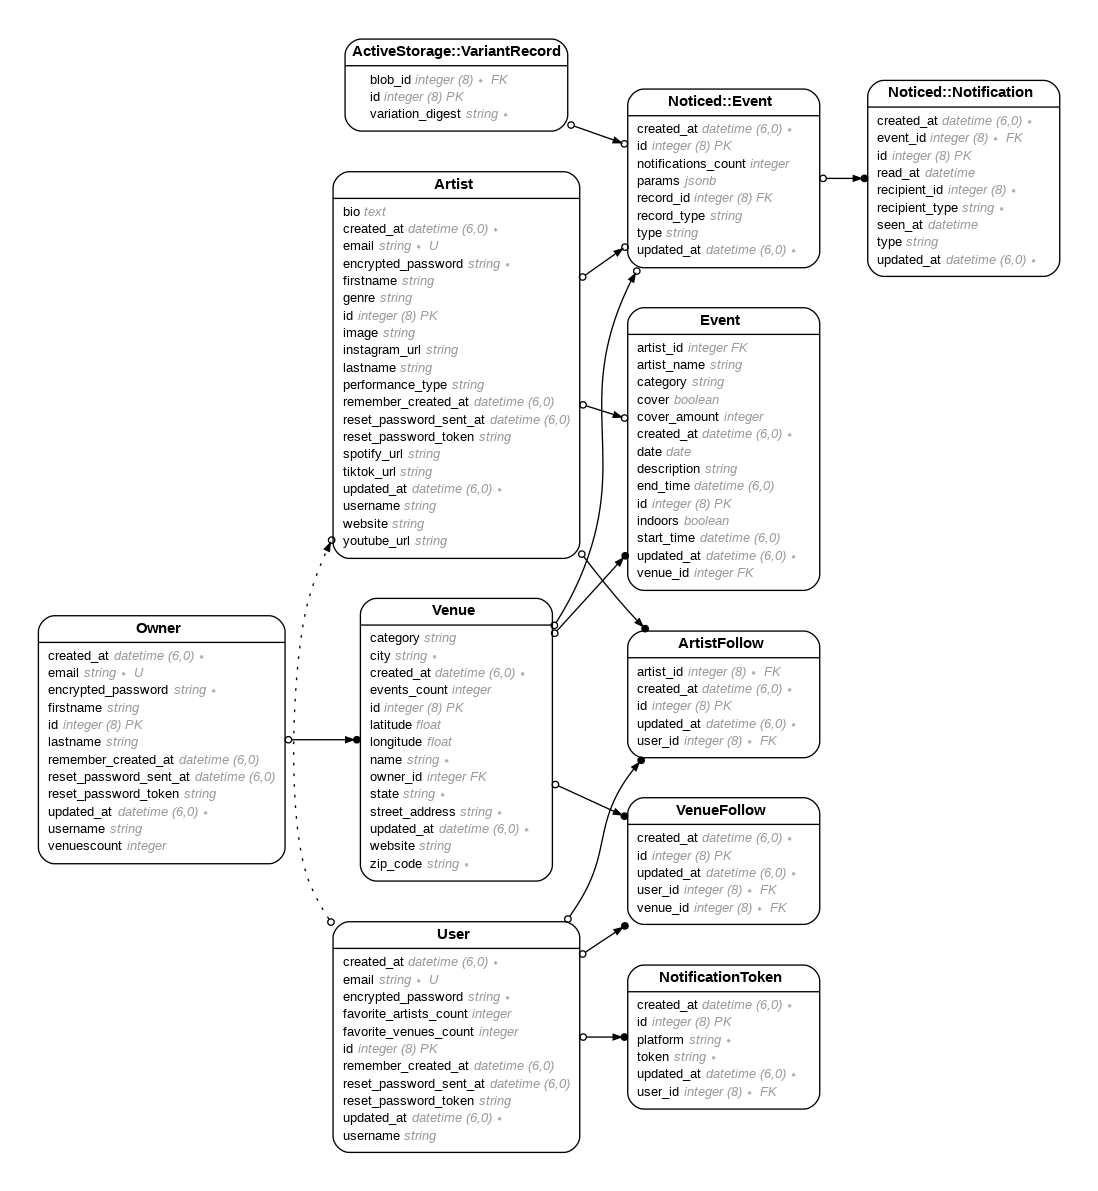
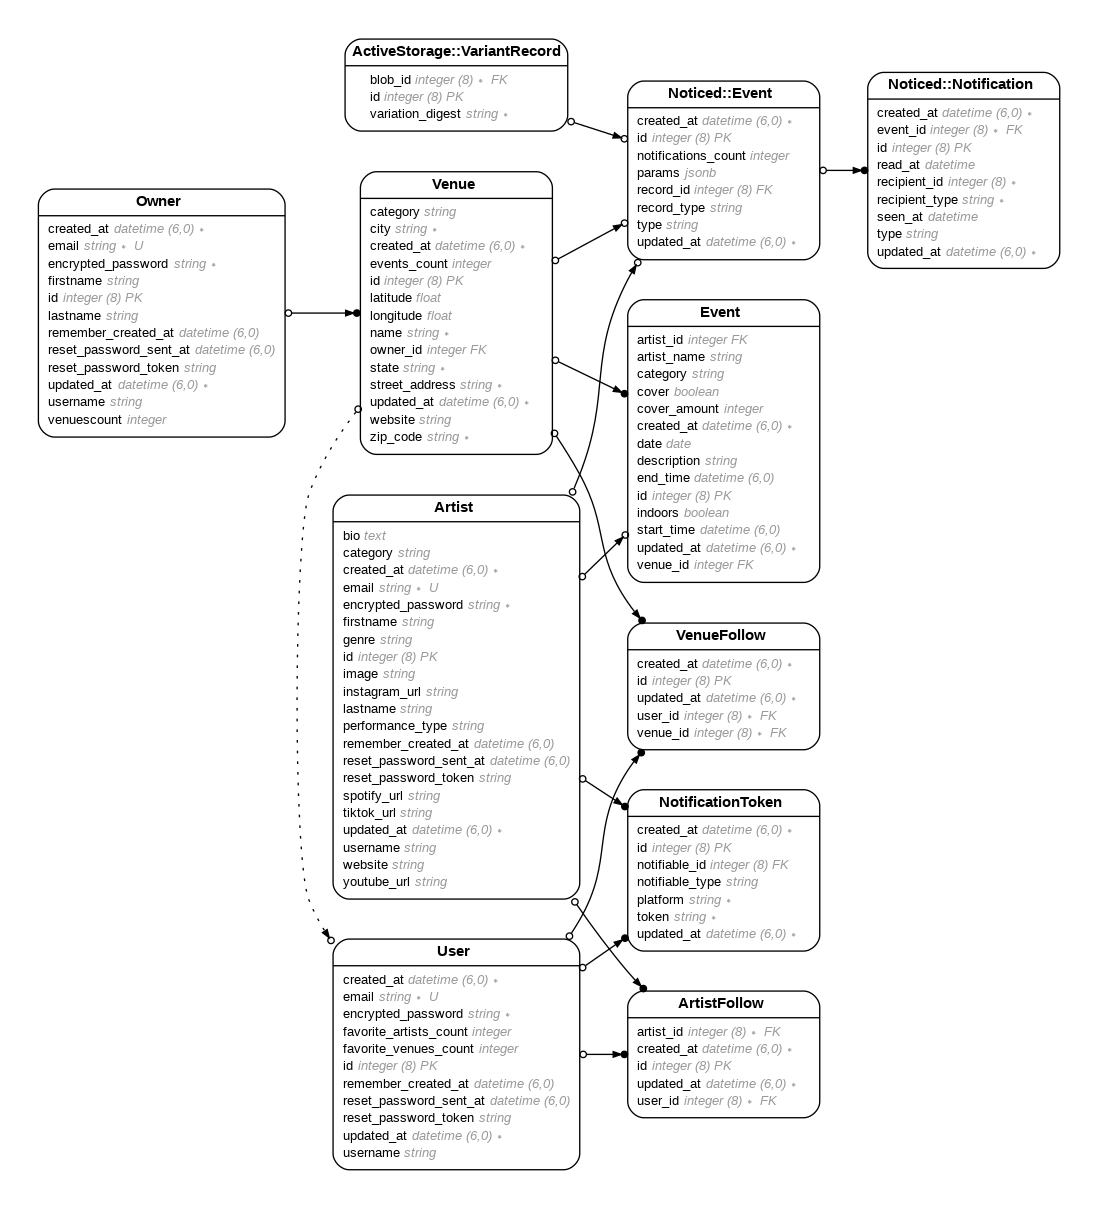
improvements to category and genre

diff --git a/app/models/event.rb b/app/models/event.rb
@@ -23,9 +23,10 @@ class Event < ApplicationRecord
 
   before_save :adjust_end_time_for_overnight_events
   before_save :set_artist_name_from_artist
+  before_save :set_category_from_artist
 
   scope :upcoming, -> { where("date >= ?", Date.today).order(:date, :start_time) }
-  scope :past,     -> { where("date < ?", Date.today).order(date: :desc, start_time: :desc) }
+  scope :past, -> { where("date < ?", Date.today).order(date: :desc, start_time: :desc) }
 
   validate :artist_presence
 
@@ -54,7 +55,7 @@ class Event < ApplicationRecord
   def parse_time_string(time_input)
     if time_input.is_a?(String)
       # Handle "HH:MM" format from form
-      hour, min = time_input.split(':').map(&:to_i)
+      hour, min = time_input.split(":").map(&:to_i)
     else
       # Handle datetime object
       hour = time_input.hour
@@ -68,6 +69,13 @@ class Event < ApplicationRecord
       self.artist_name = artist.username
     end
   end
+
+  def set_category_from_artist
+    if artist_id.present? && artist.present? && artist.category.present?
+      self.category = artist.category
+    end
+  end
+
 
   def artist_presence
     if artist_id.blank? && artist_name.blank?

diff --git a/app/models/notification_token.rb b/app/models/notification_token.rb
@@ -2,20 +2,17 @@
 #
 # Table name: notification_tokens
 #
-#  id         :bigint           not null, primary key
-#  platform   :string           not null
-#  token      :string           not null
-#  created_at :datetime         not null
-#  updated_at :datetime         not null
-#  user_id    :bigint           not null
+#  id              :bigint           not null, primary key
+#  notifiable_type :string
+#  platform        :string           not null
+#  token           :string           not null
+#  created_at      :datetime         not null
+#  updated_at      :datetime         not null
+#  notifiable_id   :bigint
 #
 # Indexes
 #
-#  index_notification_tokens_on_user_id  (user_id)
-#
-# Foreign Keys
-#
-#  fk_rails_...  (user_id => users.id)
+#  index_notification_tokens_on_notifiable  (notifiable_type,notifiable_id)
 #
 class NotificationToken < ApplicationRecord
   belongs_to :notifiable, polymorphic:true

diff --git a/db/schema.rb b/db/schema.rb
@@ -10,7 +10,7 @@
 #
 # It's strongly recommended that you check this file into your version control system.
 
-ActiveRecord::Schema[8.0].define(version: 2025_05_25_184817) do
+ActiveRecord::Schema[8.0].define(version: 2025_06_08_001453) do
   # These are extensions that must be enabled in order to support this database
   enable_extension "pg_catalog.plpgsql"
 
@@ -71,6 +71,7 @@ ActiveRecord::Schema[8.0].define(version: 2025_05_25_184817) do
     t.string "youtube_url"
     t.string "tiktok_url"
     t.string "spotify_url"
+    t.string "category"
     t.index ["email"], name: "index_artists_on_email", unique: true
     t.index ["reset_password_token"], name: "index_artists_on_reset_password_token", unique: true
   end

diff --git a/app/models/artist.rb b/app/models/artist.rb
@@ -4,6 +4,7 @@
 #
 #  id                     :bigint           not null, primary key
 #  bio                    :text
+#  category               :string
 #  email                  :string           default(""), not null
 #  encrypted_password     :string           default(""), not null
 #  firstname              :string

diff --git a/db/migrate/20250608001453_add_category_to_artists.rb b/db/migrate/20250608001453_add_category_to_artists.rb
@@ -1,0 +1,5 @@
+class AddCategoryToArtists < ActiveRecord::Migration[8.0]
+  def change
+    add_column :artists, :category, :string
+  end
+end
